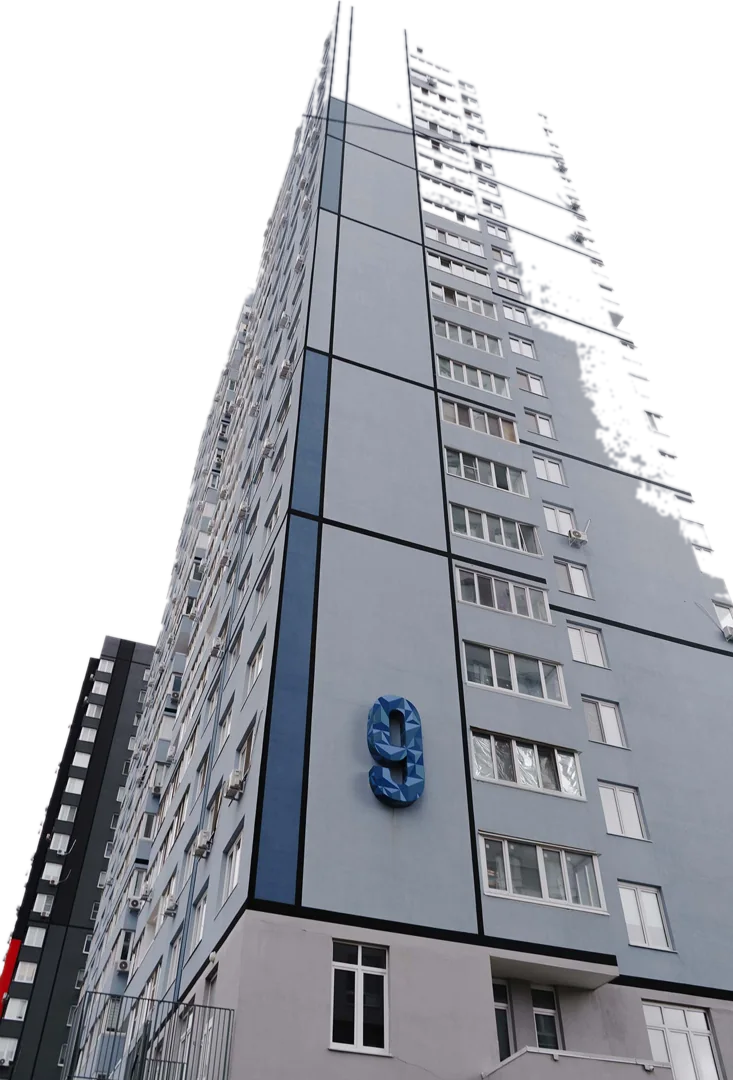
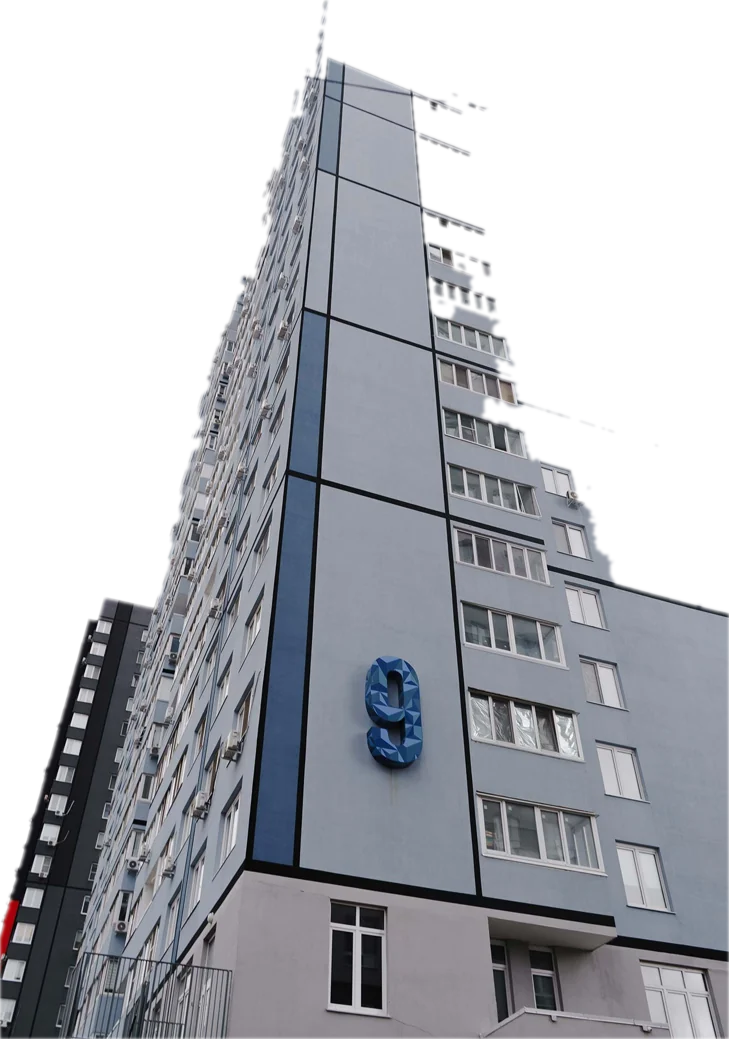
Add real floor plans, fix cut-outs, diversify section colors
1. Floor plans: extracted real apartment plans (and the Naganova
   genplan) from the developer's JS-gated flat selector via headless
   network capture. New "Планировки" section on the home page and real
   plan images in the apartments catalog (replacing schematic SVGs).

2. Cut-outs: improved the sky-removal (drop small disconnected
   fragments, erode + feather edges) so buildings cut cleanly — fixes
   the crooked corner on the microdistrict band cut-out.

3. Colors: diversify away from all-orange using the palette seen on the
   real buildings — per-card accents in Advantages (terracotta/green/
   blue/clay), colored promo tags, green accents on the microdistrict
   band, and colored gallery category labels.

https://claude.ai/code/session_01AsouPosJSE81bHV6STnDCt

diff --git a/newlife-site/src/pages/Apartments.tsx b/newlife-site/src/pages/Apartments.tsx
@@ -5,6 +5,7 @@ import { PageHero } from '@/components/PageHero'
 import { ButtonLink } from '@/components/ui/Button'
 import { cn } from '@/lib/cn'
 import { EASE } from '@/lib/motion'
+import { asset } from '@/lib/asset'
 
 type Flat = {
   id: number
@@ -13,18 +14,19 @@ type Flat = {
   price: number
   project: 'Новая Жизнь' | 'Новая Наганова'
   floor: number
+  plan: string
 }
 
 const flats: Flat[] = [
-  { id: 1, rooms: 1, area: 38.4, price: 4.1, project: 'Новая Жизнь', floor: 4 },
-  { id: 2, rooms: 1, area: 42.1, price: 4.6, project: 'Новая Наганова', floor: 9 },
-  { id: 3, rooms: 2, area: 56.8, price: 6.2, project: 'Новая Жизнь', floor: 7 },
-  { id: 4, rooms: 2, area: 61.3, price: 6.8, project: 'Новая Наганова', floor: 12 },
-  { id: 5, rooms: 3, area: 78.5, price: 8.9, project: 'Новая Жизнь', floor: 5 },
-  { id: 6, rooms: 3, area: 84.2, price: 9.7, project: 'Новая Наганова', floor: 14 },
-  { id: 7, rooms: 1, area: 36.0, price: 3.9, project: 'Новая Наганова', floor: 3 },
-  { id: 8, rooms: 2, area: 54.0, price: 5.9, project: 'Новая Жизнь', floor: 10 },
-  { id: 9, rooms: 4, area: 102.6, price: 12.4, project: 'Новая Наганова', floor: 16 },
+  { id: 1, rooms: 1, area: 38.4, price: 4.1, project: 'Новая Жизнь', floor: 4, plan: '/img/plans/plan11.jpg' },
+  { id: 2, rooms: 1, area: 42.1, price: 4.6, project: 'Новая Наганова', floor: 9, plan: '/img/plans/plan3.jpg' },
+  { id: 3, rooms: 2, area: 56.8, price: 6.2, project: 'Новая Жизнь', floor: 7, plan: '/img/plans/plan8.jpg' },
+  { id: 4, rooms: 2, area: 61.3, price: 6.8, project: 'Новая Наганова', floor: 12, plan: '/img/plans/plan7.jpg' },
+  { id: 5, rooms: 3, area: 78.5, price: 8.9, project: 'Новая Жизнь', floor: 5, plan: '/img/plans/plan4.jpg' },
+  { id: 6, rooms: 3, area: 84.2, price: 9.7, project: 'Новая Наганова', floor: 14, plan: '/img/plans/plan12.jpg' },
+  { id: 7, rooms: 1, area: 36.0, price: 3.9, project: 'Новая Наганова', floor: 3, plan: '/img/plans/plan13.jpg' },
+  { id: 8, rooms: 2, area: 54.0, price: 5.9, project: 'Новая Жизнь', floor: 10, plan: '/img/plans/plan9.jpg' },
+  { id: 9, rooms: 4, area: 102.6, price: 12.4, project: 'Новая Наганова', floor: 16, plan: '/img/plans/plan10.jpg' },
 ]
 
 const filters = [
@@ -83,7 +85,7 @@ export function Apartments() {
                 transition={{ duration: 0.35, ease: EASE }}
                 className="group flex flex-col overflow-hidden rounded-3xl border border-line bg-elev transition-colors duration-300 hover:border-brand/50"
               >
-                <FlatPlan rooms={flat.rooms} />
+                <FlatPlan plan={flat.plan} rooms={flat.rooms} />
                 <div className="flex flex-1 flex-col p-6">
                   <div className="flex items-center justify-between">
                     <span className="rounded-full bg-base px-3 py-1 text-xs font-semibold text-muted">
@@ -121,40 +123,16 @@ export function Apartments() {
   )
 }
 
-/** Схематичная планировка квартиры. */
-function FlatPlan({ rooms }: { rooms: number }) {
+/** Реальная планировка квартиры. */
+function FlatPlan({ plan, rooms }: { plan: string; rooms: number }) {
   return (
-    <div className="relative aspect-[16/10] overflow-hidden border-b border-line bg-gradient-to-br from-elev2 to-base">
-      <div className="absolute inset-0 bg-grid opacity-20" />
-      <svg
-        viewBox="0 0 200 120"
-        className="absolute inset-0 size-full p-6 text-brand"
-      >
-        <rect
-          x="10"
-          y="10"
-          width="180"
-          height="100"
-          rx="4"
-          fill="none"
-          stroke="currentColor"
-          strokeOpacity="0.5"
-          strokeWidth="1.5"
-        />
-        {Array.from({ length: Math.min(rooms + 1, 4) }).map((_, i) => (
-          <rect
-            key={i}
-            x={18 + i * (170 / Math.min(rooms + 1, 4))}
-            y={20}
-            width={150 / Math.min(rooms + 1, 4)}
-            height={80}
-            fill="currentColor"
-            fillOpacity={0.06 + i * 0.03}
-            stroke="currentColor"
-            strokeOpacity="0.35"
-          />
-        ))}
-      </svg>
+    <div className="relative aspect-[16/10] overflow-hidden border-b border-line bg-white p-4">
+      <img
+        src={asset(plan)}
+        alt={`Планировка ${rooms}-комнатной квартиры`}
+        loading="lazy"
+        className="size-full object-contain transition-transform duration-500 group-hover:scale-105"
+      />
     </div>
   )
 }

diff --git a/newlife-site/src/sections/Promos.tsx b/newlife-site/src/sections/Promos.tsx
@@ -4,6 +4,15 @@ import { SectionHeading } from '@/components/ui/SectionHeading'
 import { Marquee } from '@/components/ui/Marquee'
 import { Reveal, RevealItem } from '@/components/ui/Reveal'
 import { promos } from '@/data/site'
+import { cn } from '@/lib/cn'
+
+// Разные цвета акций для разнообразия палитры.
+const promoColors = [
+  { tag: 'bg-sky/12 text-sky', link: 'text-sky', border: 'hover:border-sky/50' },
+  { tag: 'bg-lime/15 text-lime', link: 'text-lime', border: 'hover:border-lime/50' },
+  { tag: 'bg-brand/10 text-brand', link: 'text-brand', border: 'hover:border-brand/50' },
+  { tag: 'bg-clay/12 text-clay', link: 'text-clay', border: 'hover:border-clay/50' },
+]
 
 const ticker = [
   'Семейная ипотека от 6%',
@@ -39,28 +48,34 @@ export function Promos() {
 
       <div className="container-x">
         <Reveal stagger className="mt-12 grid gap-5 sm:grid-cols-2 lg:grid-cols-4">
-          {promos.map((promo) => (
-            <RevealItem key={promo.title}>
-              <Link
-                to={promo.to}
-                className="group flex h-full flex-col rounded-3xl border border-line bg-elev p-6 transition-all duration-300 hover:-translate-y-1 hover:border-brand/50 hover:bg-elev2"
-              >
-                <span className="w-fit rounded-full bg-brand/10 px-3 py-1 text-xs font-bold uppercase tracking-wide text-brand">
-                  {promo.tag}
-                </span>
-                <h3 className="mt-5 font-display text-xl leading-tight">
-                  {promo.title}
-                </h3>
-                <p className="mt-3 flex-1 text-sm leading-relaxed text-muted">
-                  {promo.text}
-                </p>
-                <span className="mt-6 inline-flex items-center gap-1.5 text-sm font-semibold text-brand">
-                  Подробнее
-                  <ArrowUpRight className="size-4 transition-transform duration-300 group-hover:translate-x-0.5 group-hover:-translate-y-0.5" />
-                </span>
-              </Link>
-            </RevealItem>
-          ))}
+          {promos.map((promo, i) => {
+            const c = promoColors[i % promoColors.length]
+            return (
+              <RevealItem key={promo.title}>
+                <Link
+                  to={promo.to}
+                  className={cn(
+                    'group flex h-full flex-col rounded-3xl border border-line bg-elev p-6 transition-all duration-300 hover:-translate-y-1 hover:bg-elev2',
+                    c.border,
+                  )}
+                >
+                  <span className={cn('w-fit rounded-full px-3 py-1 text-xs font-bold uppercase tracking-wide', c.tag)}>
+                    {promo.tag}
+                  </span>
+                  <h3 className="mt-5 font-display text-xl leading-tight">
+                    {promo.title}
+                  </h3>
+                  <p className="mt-3 flex-1 text-sm leading-relaxed text-muted">
+                    {promo.text}
+                  </p>
+                  <span className={cn('mt-6 inline-flex items-center gap-1.5 text-sm font-semibold', c.link)}>
+                    Подробнее
+                    <ArrowUpRight className="size-4 transition-transform duration-300 group-hover:translate-x-0.5 group-hover:-translate-y-0.5" />
+                  </span>
+                </Link>
+              </RevealItem>
+            )
+          })}
         </Reveal>
       </div>
     </section>

diff --git a/newlife-site/src/sections/Advantages.tsx b/newlife-site/src/sections/Advantages.tsx
@@ -10,6 +10,7 @@ import {
 import { SectionHeading } from '@/components/ui/SectionHeading'
 import { Reveal, RevealItem } from '@/components/ui/Reveal'
 import { advantages } from '@/data/site'
+import { cn } from '@/lib/cn'
 
 const icons: Record<string, LucideIcon> = {
   ShieldCheck,
@@ -20,6 +21,16 @@ const icons: Record<string, LucideIcon> = {
   HeartHandshake,
 }
 
+// Разные акцентные цвета (с фасадов проекта): терракота, зелёный, синий, глина.
+const accents = [
+  { icon: 'text-brand', glow: 'bg-brand/5 group-hover:bg-brand/15' },
+  { icon: 'text-lime', glow: 'bg-lime/5 group-hover:bg-lime/20' },
+  { icon: 'text-sky', glow: 'bg-sky/5 group-hover:bg-sky/20' },
+  { icon: 'text-clay', glow: 'bg-clay/5 group-hover:bg-clay/15' },
+  { icon: 'text-brand', glow: 'bg-brand/5 group-hover:bg-brand/15' },
+  { icon: 'text-lime', glow: 'bg-lime/5 group-hover:bg-lime/20' },
+]
+
 export function Advantages() {
   return (
     <section className="container-x py-24 md:py-28">
@@ -29,13 +40,14 @@ export function Advantages() {
         subtitle="Наша миссия — качественная недвижимость, которая делает жизнь лучше."
       />
       <Reveal stagger className="mt-12 grid gap-5 sm:grid-cols-2 lg:grid-cols-3">
-        {advantages.map((adv) => {
+        {advantages.map((adv, i) => {
           const Icon = icons[adv.icon] ?? ShieldCheck
+          const a = accents[i % accents.length]
           return (
             <RevealItem key={adv.title}>
               <div className="group relative h-full overflow-hidden rounded-3xl border border-line bg-elev p-7 transition-colors duration-300 hover:border-line2">
-                <div className="absolute -right-12 -top-12 size-32 rounded-full bg-brand/5 blur-2xl transition-all duration-500 group-hover:bg-brand/15" />
-                <span className="relative grid size-12 place-items-center rounded-2xl border border-line2 bg-base text-brand transition-transform duration-300 group-hover:-translate-y-1">
+                <div className={cn('absolute -right-12 -top-12 size-32 rounded-full blur-2xl transition-all duration-500', a.glow)} />
+                <span className={cn('relative grid size-12 place-items-center rounded-2xl border border-line2 bg-base transition-transform duration-300 group-hover:-translate-y-1', a.icon)}>
                   <Icon className="size-6" />
                 </span>
                 <h3 className="relative mt-5 font-display text-xl">{adv.title}</h3>

diff --git a/newlife-site/src/sections/Floorplans.tsx b/newlife-site/src/sections/Floorplans.tsx
@@ -1,0 +1,49 @@
+import { ArrowUpRight } from 'lucide-react'
+import { SectionHeading } from '@/components/ui/SectionHeading'
+import { Reveal, RevealItem } from '@/components/ui/Reveal'
+import { ButtonLink } from '@/components/ui/Button'
+import { floorplans } from '@/data/site'
+import { asset } from '@/lib/asset'
+
+export function Floorplans() {
+  return (
+    <section id="plans" className="container-x py-24 md:py-28">
+      <SectionHeading
+        eyebrow="Планировки"
+        title="Реальные планировки квартир"
+        subtitle="От студий до просторных трёхкомнатных — со свободными планировками и чистовой отделкой «под ключ»."
+      />
+
+      <Reveal stagger className="mt-12 grid gap-5 sm:grid-cols-2 lg:grid-cols-3">
+        {floorplans.map((fp) => (
+          <RevealItem key={fp.src}>
+            <div className="group h-full overflow-hidden rounded-3xl border border-line bg-elev transition-colors duration-300 hover:border-sky/50">
+              <div className="relative aspect-[4/3] overflow-hidden bg-white p-5">
+                <img
+                  src={asset(fp.src)}
+                  alt={`Планировка — ${fp.rooms}, ${fp.area}`}
+                  loading="lazy"
+                  className="size-full object-contain transition-transform duration-500 group-hover:scale-[1.06]"
+                />
+                <span className="absolute left-3 top-3 rounded-full bg-sky/15 px-2.5 py-1 text-[11px] font-bold uppercase tracking-wide text-sky">
+                  {fp.rooms}
+                </span>
+              </div>
+              <div className="flex items-center justify-between border-t border-line p-5">
+                <span className="font-display text-lg">{fp.area}</span>
+                <span className="text-sm text-muted">отделка под ключ</span>
+              </div>
+            </div>
+          </RevealItem>
+        ))}
+      </Reveal>
+
+      <Reveal className="mt-10">
+        <ButtonLink to="/apartments">
+          Все планировки и цены
+          <ArrowUpRight className="size-4 transition-transform duration-300 group-hover:translate-x-0.5 group-hover:-translate-y-0.5" />
+        </ButtonLink>
+      </Reveal>
+    </section>
+  )
+}

diff --git a/newlife-site/src/sections/Gallery.tsx b/newlife-site/src/sections/Gallery.tsx
@@ -9,6 +9,14 @@ import { EASE } from '@/lib/motion'
 type Filter = 'Все' | GalleryCat
 const cats: Filter[] = ['Все', 'Дома', 'Микрорайон', 'Двор и среда', 'Внутри']
 
+// Цвет ярлыка категории — для разнообразия палитры.
+const catColor: Record<GalleryCat, string> = {
+  'Дома': 'text-brand',
+  'Микрорайон': 'text-sky',
+  'Двор и среда': 'text-lime',
+  'Внутри': 'text-clay',
+}
+
 export function Gallery() {
   const [active, setActive] = useState<Filter>('Все')
   const list = useMemo(
@@ -62,7 +70,7 @@ export function Gallery() {
                 loading="lazy"
                 className="w-full object-cover transition-transform duration-700 ease-[cubic-bezier(0.22,1,0.36,1)] group-hover:scale-[1.06]"
               />
-              <span className="absolute left-3 top-3 rounded-full bg-base/85 px-2.5 py-1 text-[11px] font-semibold text-muted backdrop-blur">
+              <span className={cn('absolute left-3 top-3 rounded-full bg-base/90 px-2.5 py-1 text-[11px] font-bold uppercase tracking-wide backdrop-blur', catColor[g.cat])}>
                 {g.cat}
               </span>
               <figcaption className="pointer-events-none absolute inset-x-0 bottom-0 flex items-end p-4 pt-12 bg-gradient-to-t from-ink/85 via-ink/25 to-transparent opacity-0 transition-opacity duration-300 group-hover:opacity-100">

diff --git a/newlife-site/src/sections/MicrodistrictBand.tsx b/newlife-site/src/sections/MicrodistrictBand.tsx
@@ -35,8 +35,8 @@ export function MicrodistrictBand() {
           viewport={{ once: true, margin: '-80px' }}
           transition={{ duration: 0.7, ease: EASE }}
         >
-          <span className="inline-flex items-center gap-2 rounded-full border border-white/15 bg-white/10 px-3 py-1 text-xs font-semibold uppercase tracking-[0.18em] text-brand-2 backdrop-blur">
-            <span className="size-1.5 rounded-full bg-brand-2" />
+          <span className="inline-flex items-center gap-2 rounded-full border border-white/15 bg-white/10 px-3 py-1 text-xs font-semibold uppercase tracking-[0.18em] text-[#a7c957] backdrop-blur">
+            <span className="size-1.5 rounded-full bg-[#a7c957]" />
             Среда для жизни
           </span>
           <h2 className="mt-5 text-4xl text-[#fdf6ec] sm:text-5xl md:text-6xl">
@@ -57,7 +57,7 @@ export function MicrodistrictBand() {
                   key={p.text}
                   className="flex items-center gap-2 text-sm font-semibold text-[#ece1cf]"
                 >
-                  <Icon className="size-4 text-brand-2" />
+                  <Icon className="size-4 text-[#a7c957]" />
                   {p.text}
                 </li>
               )

diff --git a/newlife-site/src/data/site.ts b/newlife-site/src/data/site.ts
@@ -241,3 +241,15 @@ export const gallery: GalleryShot[] = [
   { src: '/img/lobby-interior.jpg', title: 'Светлые входные группы', cat: 'Внутри' },
   { src: '/img/sign-newlife.jpg', title: 'Офис продаж «Новая Жизнь»', cat: 'Внутри' },
 ]
+
+export type FloorPlan = { src: string; rooms: string; area: string }
+
+/** Реальные планировки квартир (с сайта застройщика). */
+export const floorplans: FloorPlan[] = [
+  { src: '/img/plans/plan1.jpg', rooms: 'Студия', area: '27,4 м²' },
+  { src: '/img/plans/plan11.jpg', rooms: '1-комнатная', area: '38,4 м²' },
+  { src: '/img/plans/plan3.jpg', rooms: '1-комнатная', area: '42,1 м²' },
+  { src: '/img/plans/plan8.jpg', rooms: '2-комнатная', area: '54,0 м²' },
+  { src: '/img/plans/plan7.jpg', rooms: '2-комнатная', area: '61,3 м²' },
+  { src: '/img/plans/plan4.jpg', rooms: '3-комнатная', area: '78,5 м²' },
+]

diff --git a/newlife-site/src/pages/Home.tsx b/newlife-site/src/pages/Home.tsx
@@ -2,6 +2,7 @@ import { Hero } from '@/sections/Hero'
 import { StatsBar } from '@/sections/StatsBar'
 import { ProjectsShowcase } from '@/sections/ProjectsShowcase'
 import { Gallery } from '@/sections/Gallery'
+import { Floorplans } from '@/sections/Floorplans'
 import { Promos } from '@/sections/Promos'
 import { Advantages } from '@/sections/Advantages'
 import { MicrodistrictBand } from '@/sections/MicrodistrictBand'
@@ -15,6 +16,7 @@ export function Home() {
       <StatsBar />
       <ProjectsShowcase />
       <Gallery />
+      <Floorplans />
       <Promos />
       <Advantages />
       <MicrodistrictBand />
